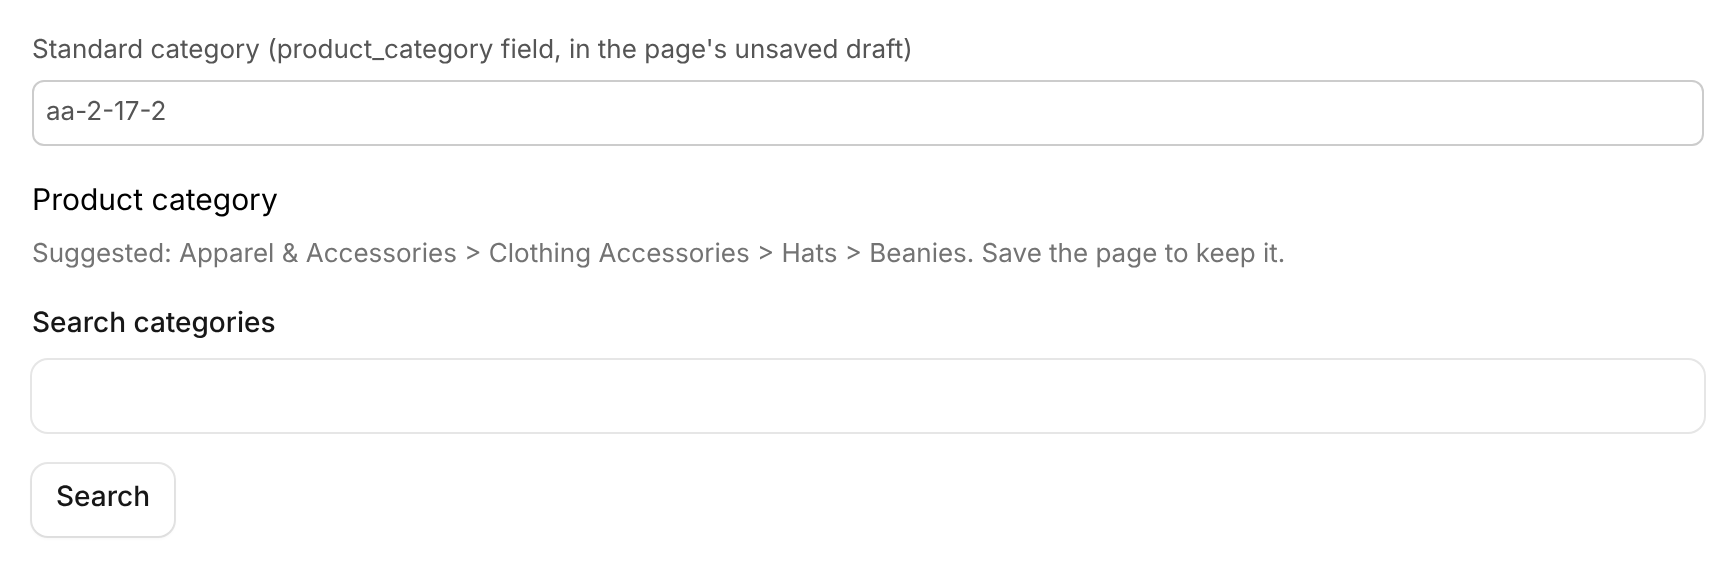
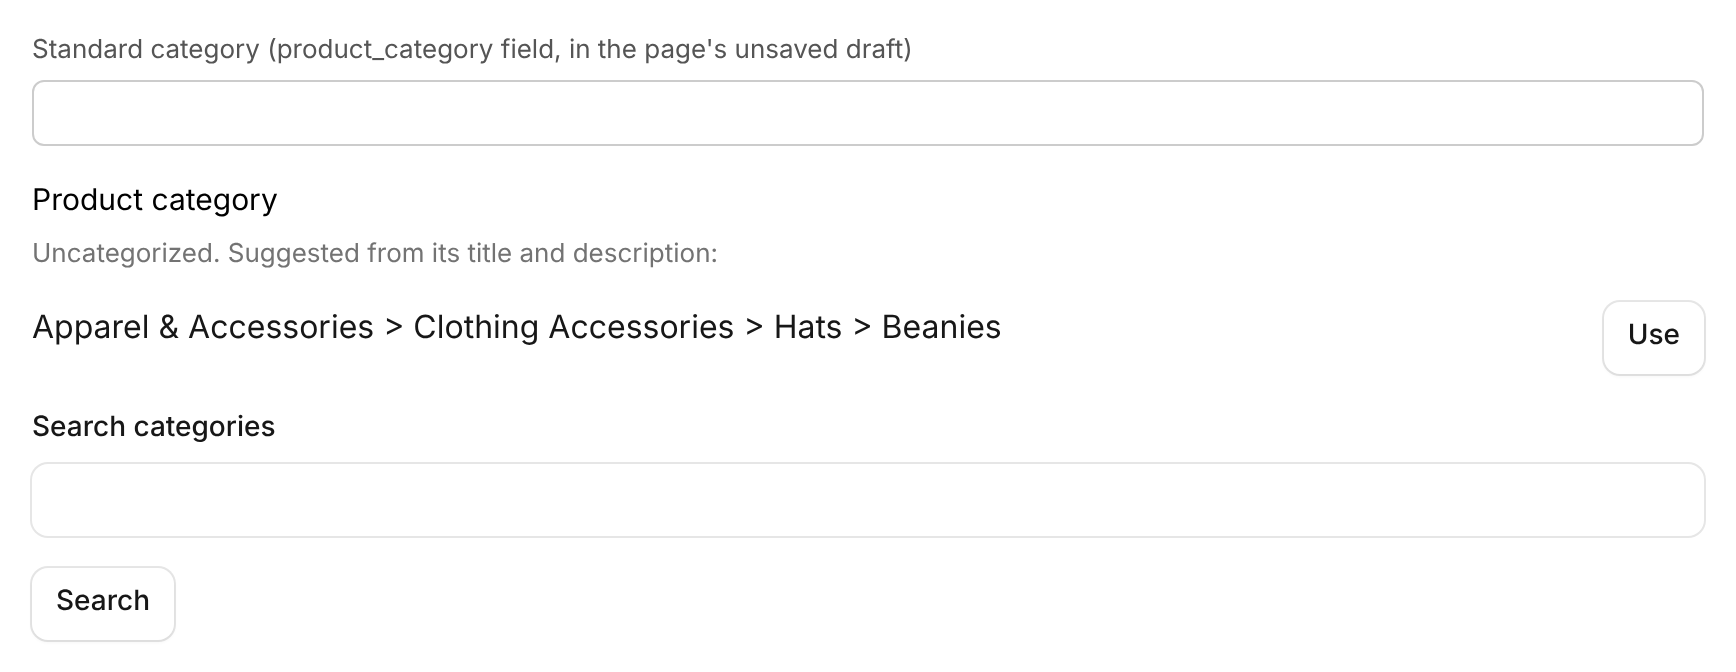
Prove the Product category panel through EmDash's own editor dispatcher, and offer the suggestion with a Use button
EmDash opens a panel with no draft and patches only in answer to a click, so
opening now reads the saved page and the suggestion comes with a Use button.
The Registry build is driven through dispatchPluginEditorExtensionApiRequest:
an Editor opens, uses, saves and reopens; the page's own Author, a Contributor
and a Subscriber get 403 and nobody signed in gets 401, with no catalog call.

Claude-Session: https://claude.ai/code/session_01Vn8pkCAVYpmcxJn4wF1F9L

diff --git a/src/admin/category.ts b/src/admin/category.ts
@@ -16,23 +16,27 @@ const categories = async (ctx: PluginContext, q: string): Promise<Category[]> =>
 };
 
 /**
- * The Product category panel on a product page, copying Shopify's Category box: an unpicked page
- * gets the best match filled in as a suggestion, a search lists matches to use, and saving the
- * page keeps the pick in its product_category field.
+ * The Product category panel on a product page, copying Shopify's Category box as far as EmDash
+ * lets a panel go: opening it names the saved category, or suggests the best match for the page's
+ * own words with a Use button; a search lists matches to use; Use fills the unsaved field, and
+ * saving the page keeps it. EmDash sends the unsaved draft only with a click, and only a click may
+ * patch it, so opening reads the saved page instead.
  */
 export async function productCategoryPanel(route: SandboxedRouteContext, ctx: PluginContext): Promise<BlockResponse> {
-  const request = object(route.input), fields = object(object(request.draft ?? {}).fields ?? {}), saved = words(fields.product_category);
-  const action = request.action_id, find = action === "find";
+  const request = object(route.input), entry = route.ui?.surface === "content-editor-panel" ? route.ui.entry.id : "";
+  const fields = object((request.draft ? object(request.draft).fields : entry && (await ctx.content?.get("products", entry).catch(() => null))?.data) || {});
+  const saved = words(fields.product_category), action = request.action_id, find = action === "find";
   let pick: Category | undefined, found: Category[] = [];
   if (action === "use") pick = object(request.value) as Category;
   else found = await categories(ctx, find ? text(object(request.values).q) : saved || words(fields.title) + " " + words(fields.description)).catch(() => []);
-  if (!action && !saved) pick = found[0];
+  const suggest = !action && !saved && found[0], use = (c: Category) => ({ type: "section" as const, text: c.name, accessory: button("Use", "use", c) });
   return {
     blocks: [
-      note(pick ? (action ? "" : "Suggested: ") + pick.name + ". Save the page to keep it."
+      note(pick ? pick.name + ". Save the page to keep it." : suggest ? "Uncategorized. Suggested from its title and description:"
         : saved ? "Category: " + (found.find(c => c.id === saved)?.name ?? saved) : "Uncategorized"),
+      ...suggest ? [use(suggest)] : [],
       { type: "form", block_id: fresh("c"), fields: [input("q", "Search categories")], submit: submit("Search", "find") },
-      ...find ? found.map(c => ({ type: "section" as const, text: c.name, accessory: button("Use", "use", c) })) : [],
+      ...find ? found.map(use) : [],
     ],
     ...pick && { patch: { type: "editor-draft-patch", operations: [{ op: "set", field: "product_category", value: pick.id }] } },
   } as BlockResponse;

diff --git a/proof/product-category-box-20261125/PROOF.md b/proof/product-category-box-20261125/PROOF.md
@@ -2,27 +2,48 @@
 
 The owner chose on 24 Nov 2026 to build the box into Commerce like Shopify, and for this PR to carry its own
 behaviour-preserving trim. It builds `template-product-category-pick-20261124` (template-store ledger): copy
-Shopify, the box arrives filled with a suggestion and saving the page confirms it.
+Shopify, the box offers a suggestion and saving the page confirms it.
+
+EmDash opens a panel with no draft and lets a panel patch the draft only in answer to a click (`panel_load` takes
+no `draft`; a patch without a draft invocation is refused). So the panel reads the saved page when it opens, and
+the suggestion comes with a **Use** button: one click fills the field, and saving keeps it.
 
 | Requirement | Passing case | Refused or fallback case | Evidence |
 | --- | --- | --- | --- |
-| An unpicked page gets a suggestion from its own words | "Wool beanie, a warm knit hat" fills `aa-2-17-2` Beanies into the draft | a page with a saved category is never patched | `1-new-product-suggested.png`; `product-category.test.mjs` |
+| An unpicked page is offered a suggestion from its own words | "Wool beanie, a warm knit hat" offers `aa-2-17-2` Beanies; Use fills it into the draft | opening changes nothing; a page with a saved category is offered nothing | `1-new-product-suggested.png`, `1b-suggestion-used.png`; `product-category.test.mjs` |
 | Search lists matches, Use fills the box | "baseball cap" lists 8 matches; Use on Baseball Caps sets `aa-2-17-1` | a search alone changes nothing | `2-search-baseball-cap.png`, `3-used-baseball-caps.png` |
-| A saved category shows by name | `aa-2-17-2` reads "Category: Apparel & Accessories > Clothing Accessories > Hats > Beanies" | with the catalog down it reads "Category: aa-2-17-2", and a fresh page reads "Uncategorized" with no patch | `4-saved-category.png`; `product-category.test.mjs` |
+| A saved category shows by name | `aa-2-17-2` reads "Category: Apparel & Accessories > Clothing Accessories > Hats > Beanies" | with the catalog down it reads "Category: aa-2-17-2"; a page that cannot be read reads "Uncategorized" | `4-saved-category.png`; `product-category.test.mjs` |
 | Fits a phone | 390 px wide, no sideways scroll; long names wrap beside their Use button | | `5-phone-search.png` |
-| The Registry build serves it through EmDash | EmDash's panel dispatch and draft-patch policy, its allowed-host check (DNS lookup of catalog.dinkuskit.com), the patch of `product_category` | | `product-category.test.mjs`, last test |
+| Only people who can edit any page reach it | an Editor (role 40) through EmDash's own editor dispatcher (`dispatchPluginEditorExtensionApiRequest`): opens, Uses, EmDash issues the patch for that page, the page is saved and reopens named | the page's own Author (30), a Contributor (20) and a Subscriber (10) get 403 `FORBIDDEN` on open and on Use, and nobody signed in gets 401; the catalog is never asked and its address never looked up | `product-category.test.mjs`, last two tests (log below) |
+| The Registry build serves it through EmDash | the built `dist/sandbox` bundle, EmDash's draft identity and patch policy, its allowed-host check (DNS lookup of catalog.dinkuskit.com) | | `product-category.test.mjs` |
 | The trim changes no behaviour | the full unit suite on the shorter build (below) | functions that could tell the difference are left alone | `build-arrow-functions.test.mjs` |
 
 The screenshots come from the real pinned Block Kit renderer (`@emdash-cms/blocks` with Kumo styles) in Chromium,
-driving this build's `productCategoryPanel`. The catalog's answers are the live catalog.dinkuskit.com answers of
-25 Nov 2026 (Worker version 5cb06ca6), saved in `live-beanie.json` and `live-cap.json` and replayed. The id answer
-in `4-saved-category.png` is the one dinkuskit#168 adds; until that is deployed the panel shows the bare id. The
-field above the panel stands in for the page's `product_category` field.
+driving this build's `productCategoryPanel` the way EmDash calls it (opening with no draft, clicks with the draft).
+The catalog's answers are the live catalog.dinkuskit.com answers of 25 Nov 2026 (Worker version 5cb06ca6), saved in
+`live-beanie.json` and `live-cap.json` and replayed. The id answer in `4-saved-category.png` is the one
+dinkuskit#168 adds; until that is deployed the panel shows the bare id. The field above the panel stands in for the
+page's `product_category` field.
+
+**The refusal is load-bearing.** With the route's permission lowered to `content:read` on purpose, the refusal test
+fails: the Author is answered with the suggestion. Restored, it passes.
+
+```
+$ node --test tests/features/catalog/product-category.test.mjs
+✔ an unpicked product is offered the best match for its own words, which one click on Use fills in
+✔ a saved category is named, and nothing in the draft changes
+✔ a search lists matches, and Use fills the box until the page is saved
+✔ with the catalog down the box still shows and still searches
+✔ the Registry build answers an Editor through EmDash's own editor dispatcher, may patch only the category, and a saved pick reopens named
+✔ someone without content:edit_any, even the page's own Author, is refused before the catalog is asked or a patch is made
+ℹ pass 6
+ℹ fail 0
+```
 
 ## Bytes
 
-Registry backend (`npm run build`), on main 1c5f93f: 131,069 bytes (3 free). With this PR: 128,094 bytes
-(2,978 free). The build step alone frees 3,787 bytes (measured on adb9fda: 131,003 to 127,216); the panel costs
+Registry backend (`npm run build`), on main 1c5f93f: 131,069 bytes (3 free). With this PR: 128,249 bytes
+(2,823 free). The build step alone frees 3,787 bytes (measured on adb9fda: 131,003 to 127,216); the panel costs
 about 850. The feeds library change adds nothing to the backend: the builders are host-side.
 
 ## Tests on the shorter build
@@ -41,4 +62,7 @@ on 0.8.0 read, sell and save as before).
 
 No storage, route or data change. Installing or upgrading asks for two new grants: the `admin.editor-draft:patch`
 permission (the Product category panel only, its `product_category` field only) and `catalog.dinkuskit.com` as a
-network host.
+network host. EmDash's Registry shows both to the owner at install or upgrade, and the store keeps the version it
+has until they are approved; `installed-context.test.mjs` and `registry-checkout-services.test.mjs` pin both lists.
+The panel needs the template's `product_category` field (template-store `008_product_category`, merged); on a store
+without it EmDash refuses Use's patch (`EDITOR_DRAFT_UNSUPPORTED_FIELD_TYPE`) and the page is not changed.

diff --git a/docs/website/reference/commerce.md b/docs/website/reference/commerce.md
@@ -59,7 +59,7 @@ billing address or determine taxes or currency.
 - Feed channels are product-level choices. A simple product saves its **Google Merchant** and **Meta catalog** switches with **Pricing & stock**. A product with options has one **Feeds** card with the same switches and **Save feeds**; it applies to the whole product, not one size. Feed saves do not change member prices, SKUs or stock status. Reload before saving a stale form.
 - To archive a product, choose **Move to trash** on its page. It leaves the shop, keeps its orders and its link to the page, and **Restore** in the trash brings the page back as a Draft; publish it to sell it again. A product archived with the Archive button of Commerce 0.8.0 or earlier is no longer kept off the shop after you update; move its page to the trash to archive it again. **Delete permanently** in the trash deletes the product for good, with all its variants, prices, stock, photos and feed choices, so its SKU can be used again; its orders keep their own copy of what was bought. If a permanent delete stops partway, the product stays off the shop and Commerce's background check finishes the delete, one stopped delete each 5-minute run, along with any product the panel had picked for that page. It never touches a product another page holds. The Commerce panel has no Archive or Delete button of its own.
 - **Product image & gallery** chooses the product's picture and up to eight gallery pictures from the Media Library, in order. It works once the page sells a product; until then it points to **Dinkus Commerce**.
-- **Product category** picks the product's standard category from Shopify's Standard Product Taxonomy (2026-11), as Shopify's Category box does, for the Google, Meta and agent feeds and for tax. A page with no category gets the closest match to its title and description filled in as a suggestion; **Search categories** lists matches, and **Use** puts one in the box. Saving the page keeps the pick in its **product_category** field; leaving it empty sends no category. The list is too big to ship in Commerce, so the search and the category's name come from catalog.dinkuskit.com, which keeps nothing it is sent. When it does not answer, the box still searches again later and shows a saved category by its id. For this panel Commerce asks for the `admin.editor-draft:patch` permission, to fill only that field, and for `catalog.dinkuskit.com` as a network host when it is installed or upgraded.
+- **Product category** picks the product's standard category from Shopify's Standard Product Taxonomy (2026-11), as Shopify's Category box does, for the Google, Meta and agent feeds and for tax. A page with no category is offered the closest match to its saved title and description, with a **Use** button; **Search categories** lists matches, and **Use** puts one in the box. EmDash lets a panel change the page only when someone clicks in it, so the suggestion waits for that one click instead of arriving filled in. Only people who can edit any page (Editors and Admins) can use the panel. Saving the page keeps the pick in its **product_category** field; leaving it empty sends no category. The list is too big to ship in Commerce, so the search and the category's name come from catalog.dinkuskit.com, which keeps nothing it is sent. When it does not answer, the box still searches again later and shows a saved category by its id. For this panel Commerce asks for the `admin.editor-draft:patch` permission, to fill only that field, and for `catalog.dinkuskit.com` as a network host when it is installed or upgraded.
 - A product with no Regular price is not for sale, so the panel says **Add a Regular price to sell it**, and a published page's product reads **Published: off the shop** until it has one. Saving with Regular empty answers with the same words instead of **Product saved**.
 - The page title is the product's name. Publishing the page copies the title to the product, so the shop, cart, checkout and new orders show it. Paid orders keep the name they were bought under. To rename a product, change the page title and publish. A store must have the publish check that sends the title (DinkusKit Template Store from template-store#158) before it upgrades to this Commerce; until then products keep their current names.
 

diff --git a/.changeset/product-category-box.md b/.changeset/product-category-box.md
@@ -2,4 +2,4 @@
 "@dinkuskit/commerce": minor
 ---
 
-Product pages get a **Product category** panel, like Shopify's Category box: a page with no category gets the closest Shopify Standard Product Taxonomy category to its title and description filled in as a suggestion, **Search categories** lists matches with a **Use** button each, and saving the page keeps the pick in its `product_category` field. Matches and the saved category's name come from catalog.dinkuskit.com. The Google, Meta and agent feeds send a product's standard category when the host passes `content.standardCategory` (and `content.productType` for the store's own category). Installing or upgrading asks for `admin.editor-draft:patch` (this panel's one field only) and `catalog.dinkuskit.com` as a network host. To make room, the Registry build writes its functions as shorter arrow functions, freeing about 3,800 bytes with no behaviour change.
+Product pages get a **Product category** panel, like Shopify's Category box: a page with no category is offered the closest Shopify Standard Product Taxonomy category to its title and description with a **Use** button, **Search categories** lists matches with a **Use** button each, and saving the page keeps the pick in its `product_category` field. Matches and the saved category's name come from catalog.dinkuskit.com. The Google, Meta and agent feeds send a product's standard category when the host passes `content.standardCategory` (and `content.productType` for the store's own category). Installing or upgrading asks for `admin.editor-draft:patch` (this panel's one field only) and `catalog.dinkuskit.com` as a network host. To make room, the Registry build writes its functions as shorter arrow functions, freeing about 3,800 bytes with no behaviour change.
